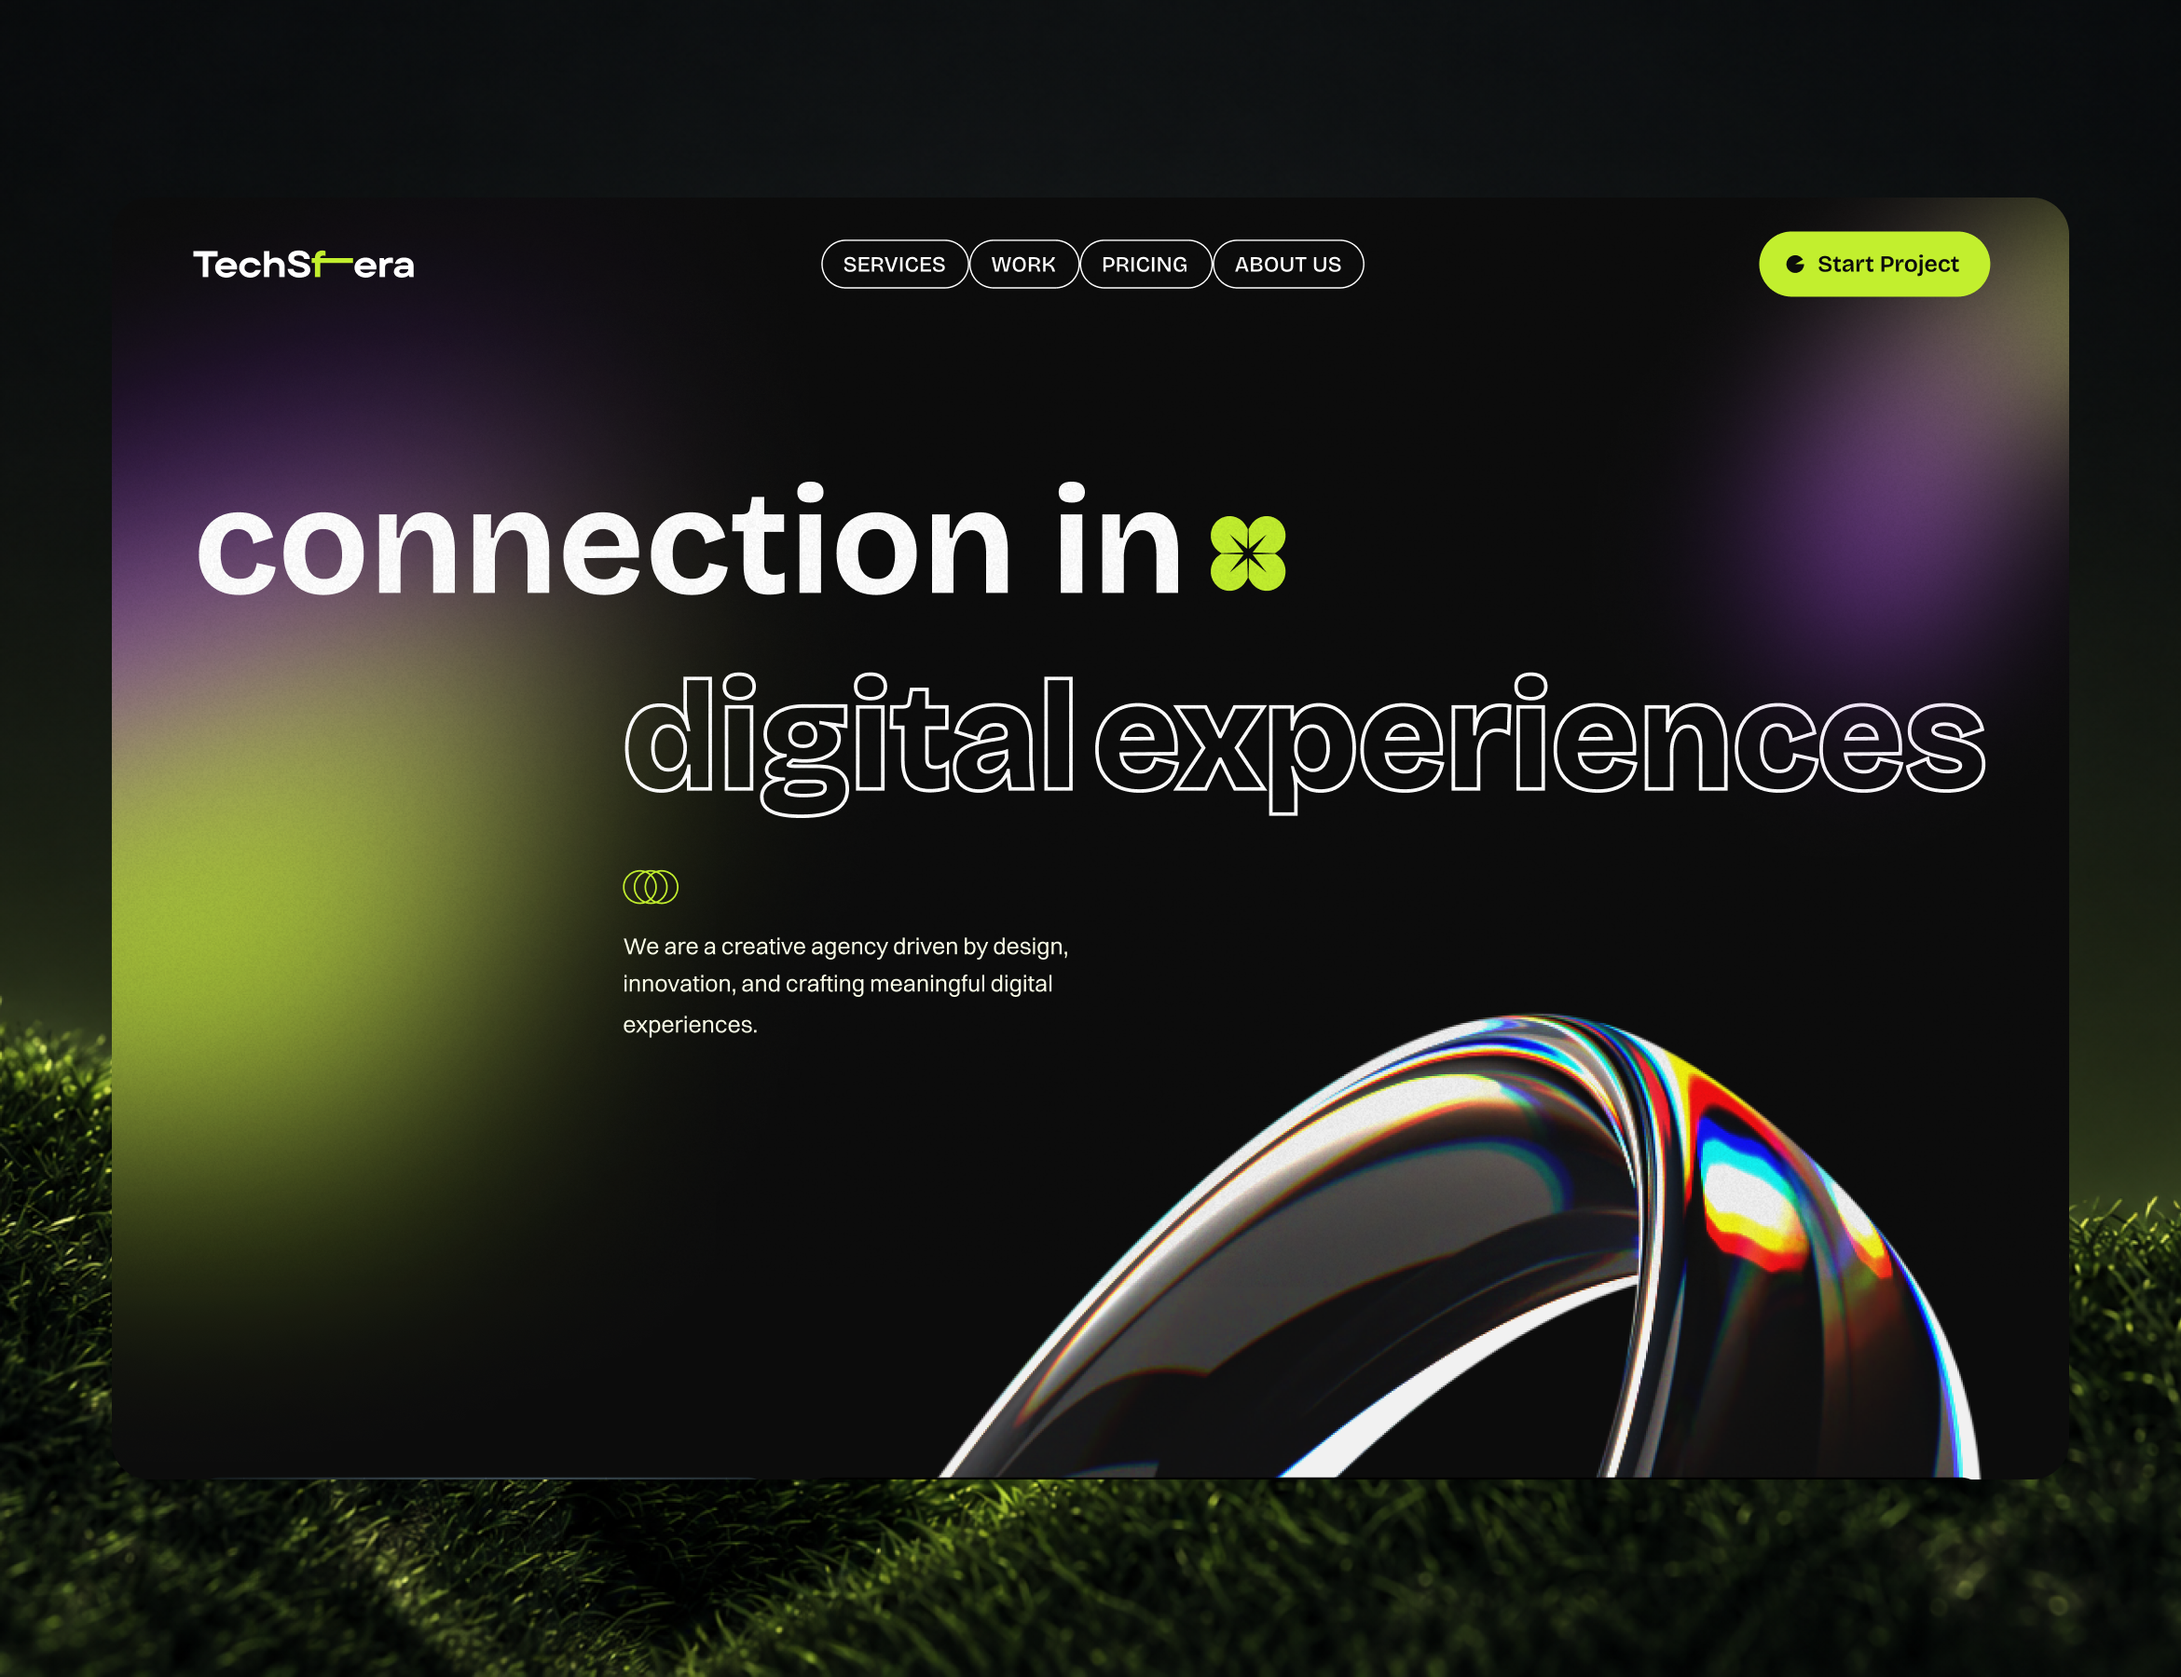
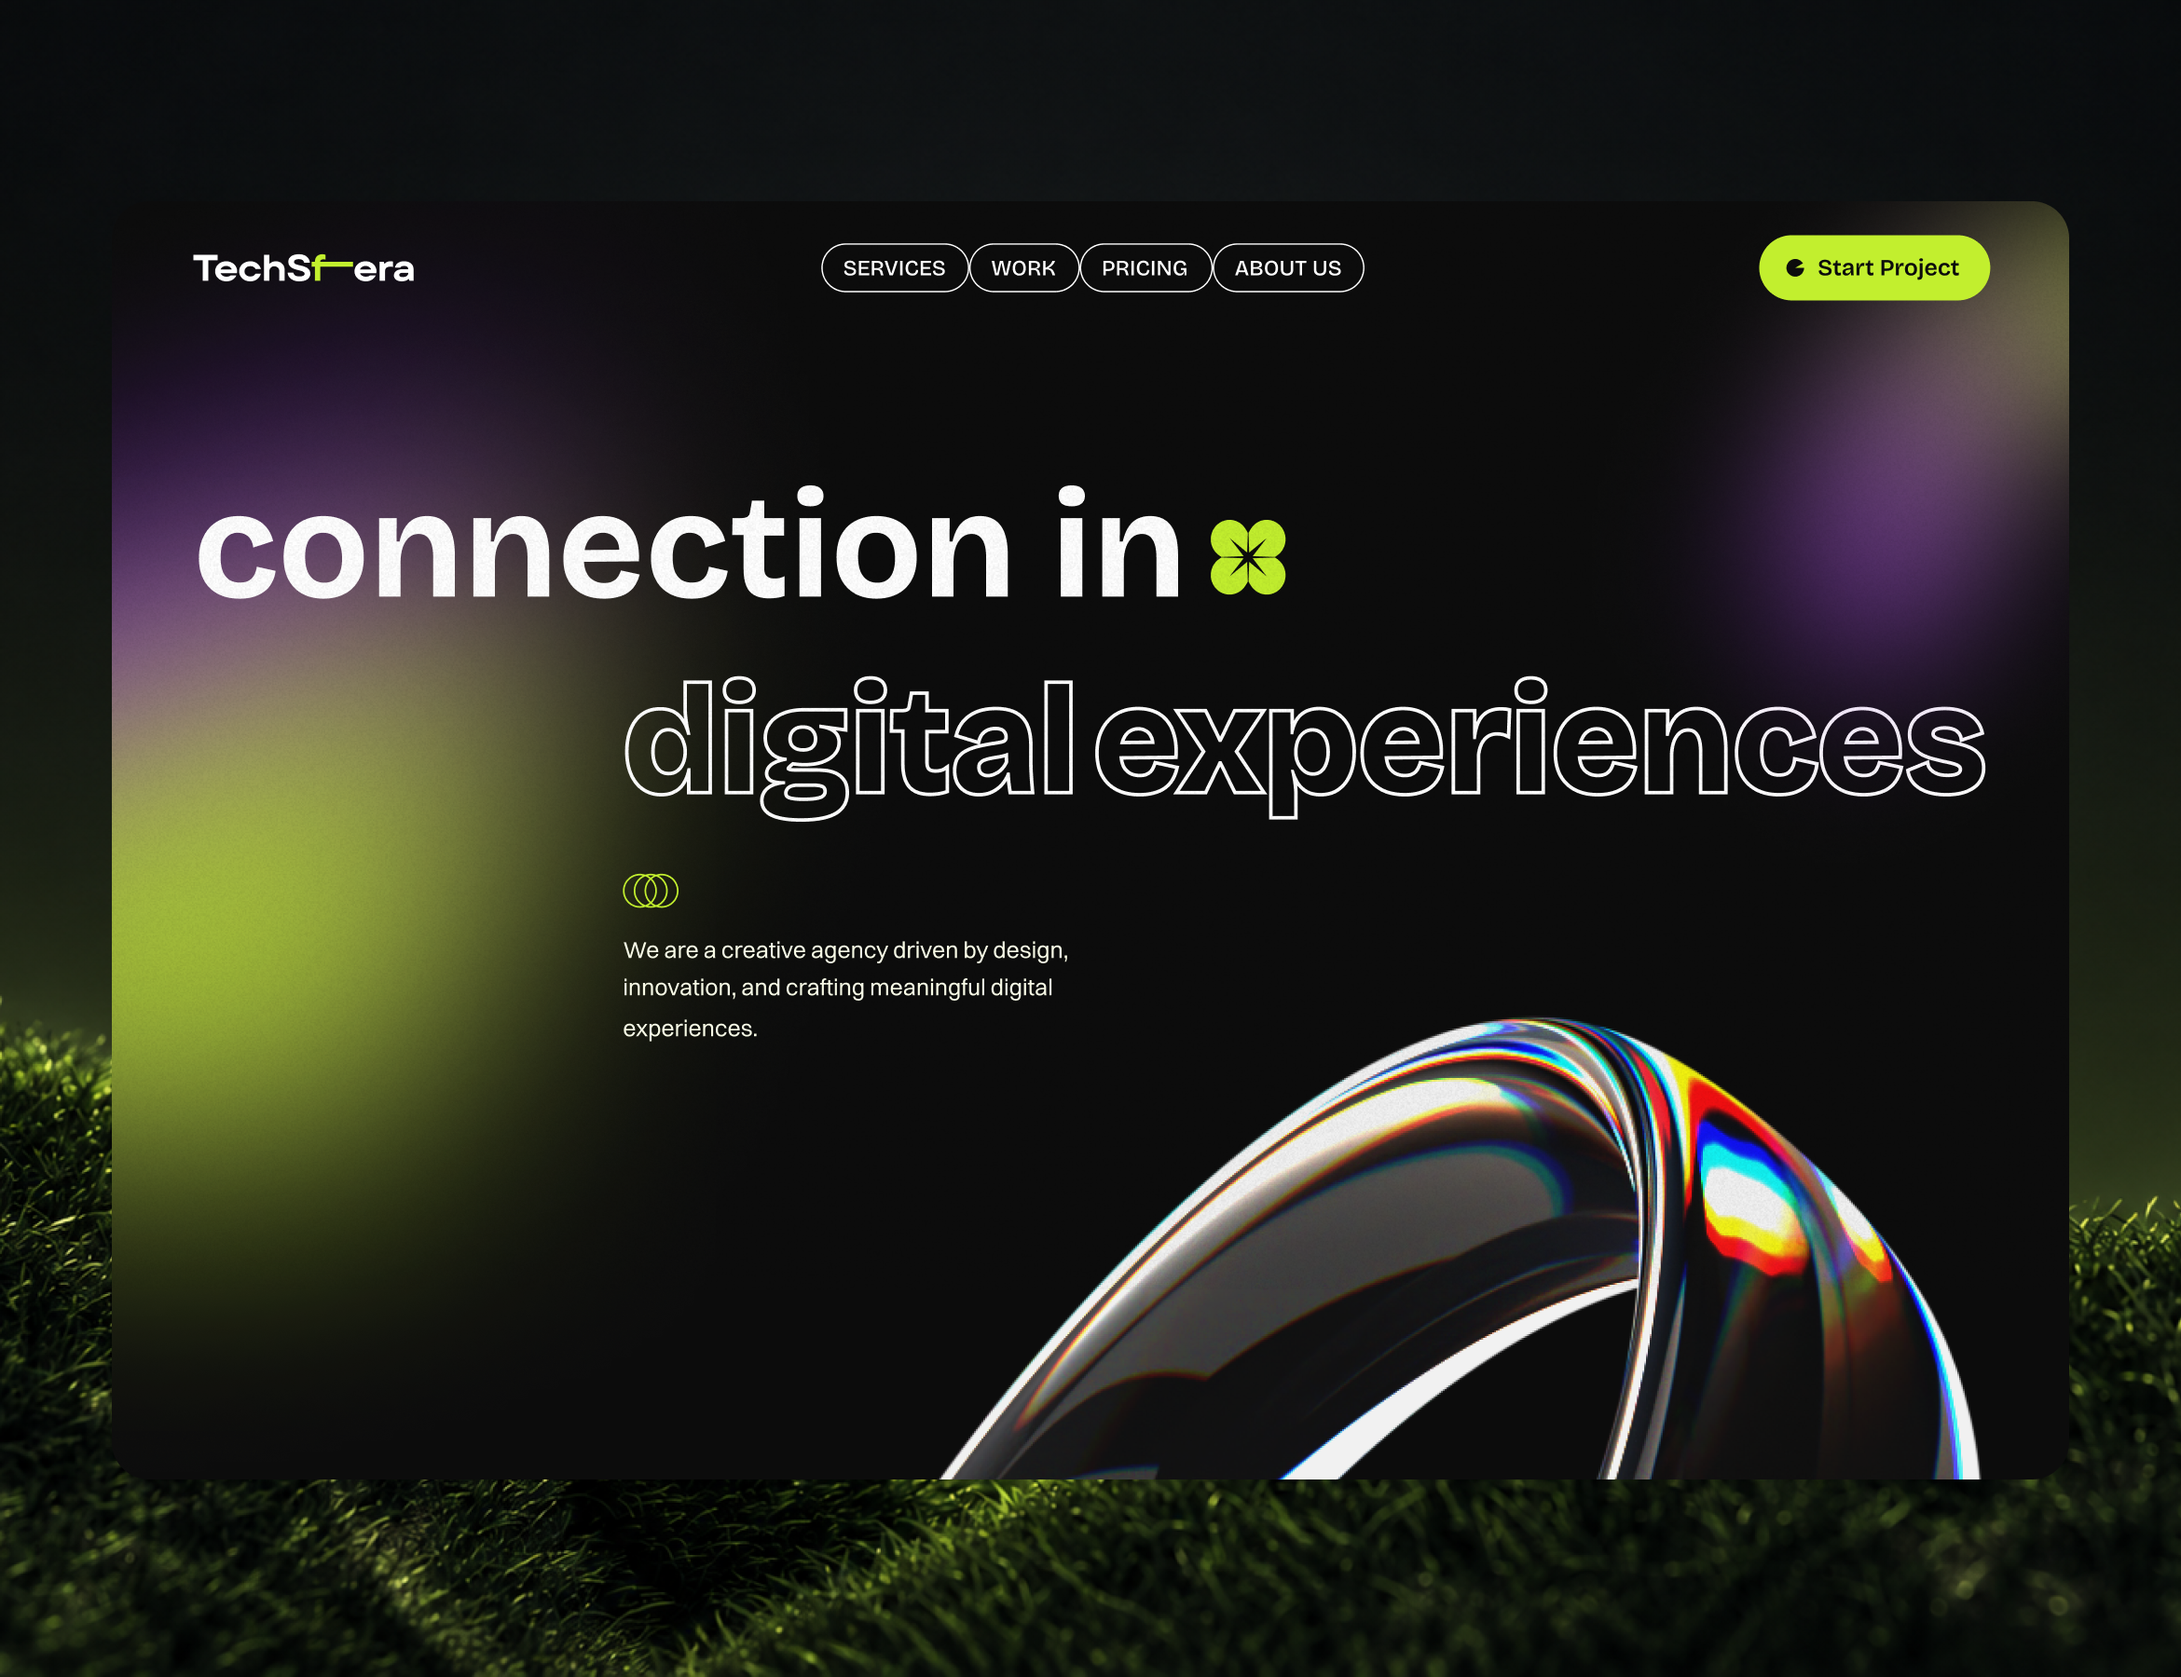
Update Proto 03 image

diff --git a/src/components/SelectedWorks.tsx b/src/components/SelectedWorks.tsx
@@ -7,7 +7,7 @@ import { motion, AnimatePresence } from "framer-motion";
 const WORK_ITEMS = [
   { id: "proto-01", title: "Proto. 01", image: "/assets/works/proto-01.png?v=17" },
   { id: "proto-02", title: "Proto. 02", image: "/assets/works/proto-02.png?v=17" },
-  { id: "proto-03", title: "Proto. 03", image: "/assets/works/proto-03.png?v=17" },
+  { id: "proto-03", title: "Proto. 03", image: "/assets/works/proto-03.png?v=18" },
   { id: "proto-04", title: "Proto. 04", image: "/assets/works/proto-04.png?v=17" },
   { id: "proto-05", title: "Proto. 05", image: "/assets/works/proto-05.png?v=17" },
 ];
